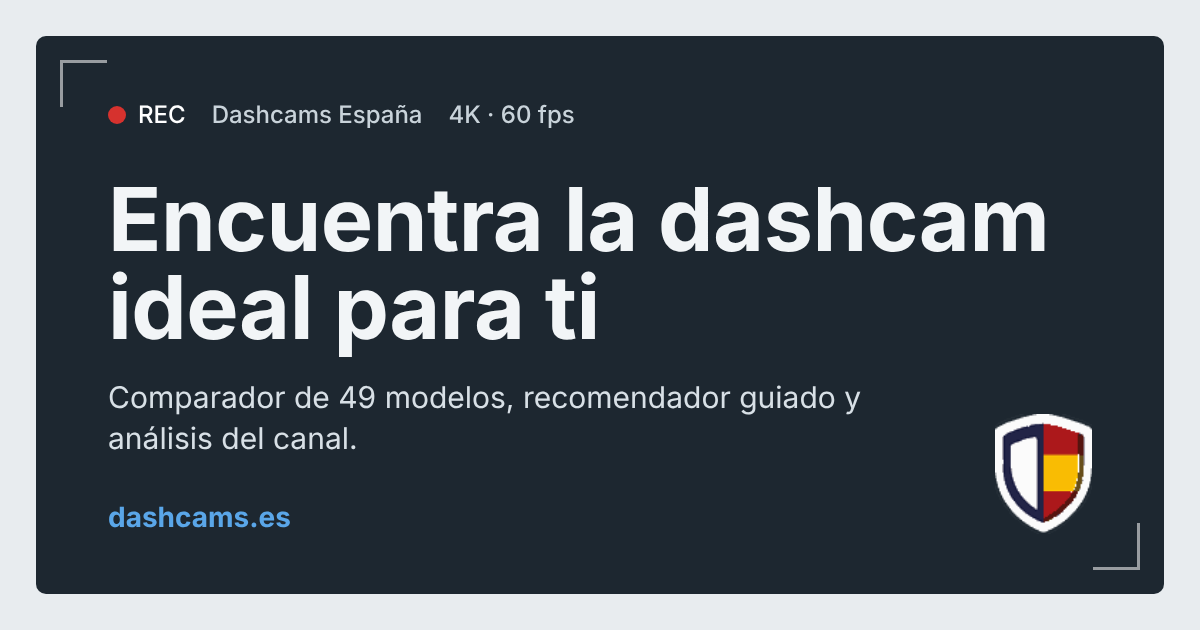
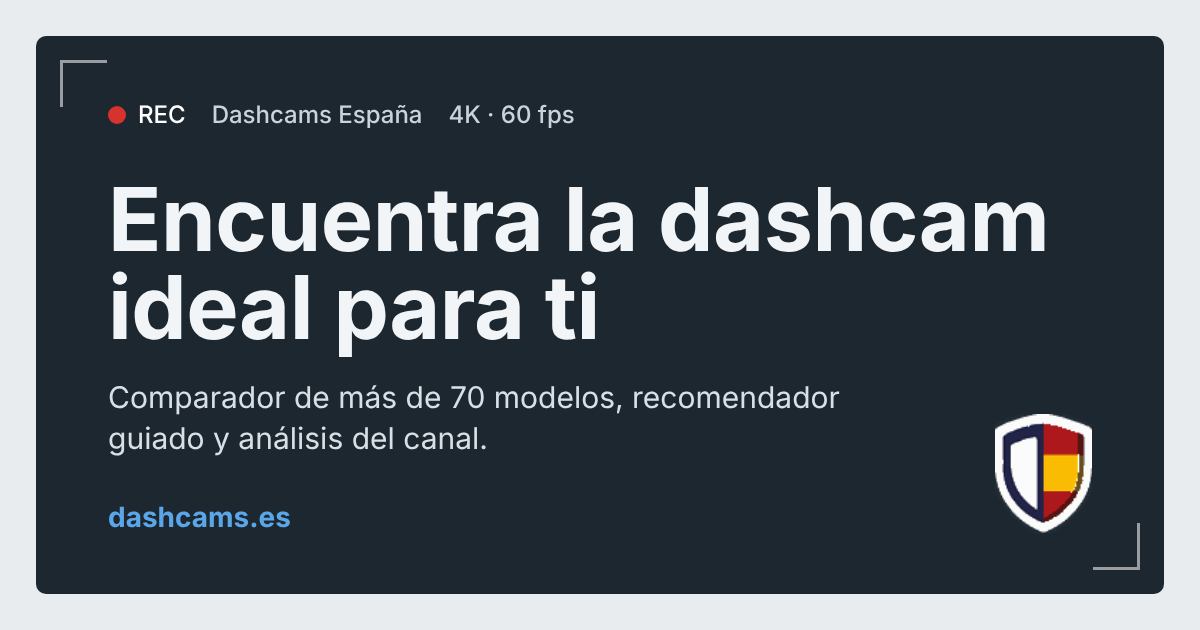
Añade 23 dashcams al comparador y al recomendador
Modelos bien valorados en el hilo de r/CarsPH (DDPAI, 70mai, Transcend)
y en reseñas de 2026 (Garmin, Vantrue, Redtiger, Miofive, Thinkware,
BlackVue, Viofo), comprobados en Amazon.es. La DDPAI Z50 pasa a Z50 Pro y
la Z60 Pro enlaza a su análisis.

Claude-Session: https://claude.ai/code/session_01MQzpTi9XUnpbRSKxLniG7L

Changed region(s): [[0.0925, 0.6032, 0.7092, 0.7238]]

diff --git a/index.html b/index.html
@@ -306,7 +306,10 @@ var ASIN = {
 "Vantrue N4S 3CH":"B0F59T1B4N","Vantrue N5S 4CH":"B0F8BWJHW4","Vantrue E1 Pro 4K Mini":"B0DSKXJV3H","Vantrue S1 Pro":"B0F4WK84NS",
 "Thinkware U3000 Pro 4K":"B0FZW91Y7G","Thinkware Q200":"B0CRZ3SC54","Thinkware F70 Pro":"B0C8HGNZT2","BlackVue Elite 9 2CH":"B0F2JJ4NDG",
 "Nextbase 622GW":"B0F8W2FW85","Nextbase 522GW":"B07PV2RX57","Nextbase 422GW":"B07PV1Q979","Nextbase 322GW":"B07PV198QC","Nextbase Piqo 2K":"B0DD7Z338X","Nextbase iQ":"B0CT929JR8",
-"Garmin Dash Cam 57":"B0932FTP6D","Garmin Dash Cam 67W":"B093244D1J","Garmin Dash Cam X310":"B0DDTCZT4L","70mai Dash Cam A500S":"B07J35BF35"
+"Garmin Dash Cam 57":"B0932FTP6D","DDPAI Z50 Pro":"B0F4D44JTC","DDPAI N5 Dual":"B0CYC7D8PX","DDPAI N4T Pro 3CH":"B0H74QSMBS","DDPAI N2 Dual":"B0HDRW9X69","DDPAI Mini Pro":"B0H3Z8M52C",
+"70mai A510":"B0D6B1SBMH","70mai A800SE":"B0G8HNXGC5","70mai A810 Lite":"B0GTLD65SS","70mai M310 Plus 4K":"B0GKGSBWWH","70mai Omni X800":"B0DSDV3CZ3","70mai T800 3CH":"B0FC6DZL63",
+"Garmin Dash Cam Mini 3":"B0DDTCNLG7","Garmin Dash Cam X110":"B0DDT9N1TH","Garmin Dash Cam X210":"B0DDTCW6VG","Garmin Dash Cam Tandem":"B082JHTSGT","Miofive S1 Pro Dual":"B0GKD5M87D","Redtiger F7N Touch 4K":"B0HFMQRG39",
+"Thinkware ARC 700":"B0GF8T2SD5","Transcend DrivePro 550":"B08VFCRG6V","Vantrue E2":"B0B68MTZJP","Vantrue S1 Pro Max":"B0F8BW5HTS","Viofo A139 3CH":"B08XB8DVGL","BlackVue Elite 10 2CH":"B0GCSH37Z5","Garmin Dash Cam 67W":"B093244D1J","Garmin Dash Cam X310":"B0DDTCZT4L","70mai Dash Cam A500S":"B07J35BF35"
 };
 function amz(n){return ASIN[n]?"https://www.amazon.es/dp/"+ASIN[n]+"?tag="+TAG:"https://www.amazon.es/s?k="+encodeURIComponent(n)+"&tag="+TAG;}
 
@@ -318,7 +321,10 @@ var PR={"70mai Dash Cam M300":"40–80 €","70mai A810S 4K":"unos 260 €","AZD
 "BlackVue DR970X Plus 2CH":"430–500 €","BlackVue DR770X 2CH":"unos 340 €","BlackVue DR590X 2CH":"210–220 €","BlackVue Elite 9 2CH":"410–460 €",
 "Nextbase 622GW":"unos 255 €","Nextbase 522GW":"unos 205 €","Nextbase 422GW":"115–170 €","Nextbase 322GW":"unos 140 €","Nextbase 222":"50–110 €","Nextbase Piqo 2K":"unos 125 €","Nextbase iQ":"450–650 €",
 "Garmin Dash Cam 57":"unos 180 €","Garmin Dash Cam 67W":"unos 340 € (vendedor externo)","Garmin Dash Cam X310":"unos 300 €","70mai Dash Cam A500S":"unos 105 € (vendedor externo)",
-"DDPAI Z50":"unos 165 €","AZDOME M550 3CH":"unos 135 €","NEXPOW 3 canales 4K":"60–100 €","WolfBox espejo 12 pulgadas 4K":"120–130 €"};
+"DDPAI Z50 Pro":"unos 95 €","DDPAI Z60 Pro":"desde unos 130 € (delantera y trasera)","DDPAI N5 Dual":"unos 150 €","DDPAI N4T Pro 3CH":"unos 130 €","DDPAI N2 Dual":"unos 80 €","DDPAI Mini Pro":"unos 55 €",
+"70mai A510":"unos 140 €","70mai A800SE":"unos 140 €","70mai A810 Lite":"unos 105 €","70mai M310 Plus 4K":"unos 70 €","70mai Omni X800":"unos 400 €","70mai T800 3CH":"unos 450 €",
+"Garmin Dash Cam Mini 3":"unos 130 €","Garmin Dash Cam X110":"unos 180 €","Garmin Dash Cam X210":"unos 240 €","Garmin Dash Cam Tandem":"unos 350 €","Miofive S1 Pro Dual":"unos 170 € (vendedor externo)","Redtiger F7N Touch 4K":"unos 120 €",
+"Thinkware ARC 700":"unos 305 € (vendedor externo)","Transcend DrivePro 550":"unos 155 €","Vantrue E2":"unos 220 €","Vantrue S1 Pro Max":"unos 300 €","Viofo A139 3CH":"unos 280 €","BlackVue Elite 10 2CH":"unos 700 €","AZDOME M550 3CH":"unos 135 €","NEXPOW 3 canales 4K":"60–100 €","WolfBox espejo 12 pulgadas 4K":"120–130 €"};
 function btn(u){return "<a class='buy' href='"+u+"' target='_blank' rel='sponsored noopener'>"+(u.indexOf("/s?k=")>-1?"Buscar en Amazon":"Ver en Amazon")+"</a>";}
 
 /* ===== BLOG: cada artículo es un bloque de esta lista (el primero sale el primero en el blog) =====
@@ -848,7 +854,7 @@ var DASHCAMS = [
 ["VIOFO VS1","2K a 30 fps","","","Sí","","Sí","Sí (con kit a fusibles)","","","8,37 / 10","#vs1",amz("VIOFO VS1")]
   ];
   var RA=[[1,2,1,0,1,1,0,0,1],[3,3,1,1,1,1,0,1,0],[2,3,2,1,1,1,1,0,0],[2,1,1,0,1,.5,1,0,1],[3,3,3,1,1,1,1,0,0],[3,2,2,1,1,1,1,1,0],[4,3,2,1,1,1,1,1,0],[4,2,3,1,1,1,1,0,0],[2,2,1,1,0,1,1,0,.5]];
-  /* Base ampliada: [nombre, gama, res(1=1080p,2=2K,3=4K), cámaras(1,2,3), GPS, WiFi, aparcado, voz, pantalla, discreta, ángulo, tarjeta, texto trasera, nota resolución]; 1=sí, .5=opcional, 0=no, null=sin confirmar */
+  /* Base ampliada: [nombre, gama, res(1=1080p,2=2K,3=4K), cámaras(1,2,3), GPS, WiFi, aparcado, voz, pantalla, discreta, ángulo, tarjeta, texto trasera, nota resolución, reseña del blog (opcional, p. ej. "#ddpai-z60-pro")]; 1=sí, .5=opcional, 0=no, null=sin confirmar */
   var NEW=[
 ["Viofo A119 Mini 2",2,2,1,1,1,1,1,1,1,"140°","","",""],
 ["Viofo A119M Pro 4K",2,3,1,1,1,1,1,1,1,"","Hasta 512 GB","",""],
@@ -883,7 +889,30 @@ var DASHCAMS = [
 ["70mai Dash Cam A400",2,2,2,null,1,1,null,null,0,"","",""," (trasera 1080p)"],
 ["70mai Dash Cam A500S",2,2,2,1,1,1,null,1,0,"140°","",""," (2,7K, trasera 1080p)"],
 ["70mai Dash Cam Lite",1,1,1,null,1,1,null,1,0,"130°","","",""],
-["DDPAI Z50",2,3,2,1,1,null,null,null,0,"140° delantera, 125° trasera","",""," (trasera 1080p)"],
+["DDPAI Z50 Pro",2,3,2,1,1,1,1,1,0,"143°","Hasta 512 GB",""," (trasera 1080p)"],
+["DDPAI Z60 Pro",2,3,3,1,1,1,1,1,0,"","","Sí (trasera 1080p e interior 2K)"," (3K a 60 fps)","#ddpai-z60-pro"],
+["DDPAI N5 Dual",2,3,2,1,1,1,1,1,0,"170°","Hasta 512 GB",""," (trasera 1080p)"],
+["DDPAI N4T Pro 3CH",2,3,3,null,null,null,null,null,0,"","",""," (trasera e interior 1080p; interior con infrarrojos)"],
+["DDPAI N2 Dual",1,2,2,null,1,1,null,1,0,"","Hasta 256 GB",""," (2,5K; trasera 1080p)"],
+["DDPAI Mini Pro",1,3,1,null,1,1,1,null,1,"Gira 360°","","",""],
+["70mai A510",2,2,2,1,1,1,null,null,0,"","",""," (2,7K; trasera 1080p)"],
+["70mai A800SE",2,3,2,1,1,1,null,1,0,"140°","",""," (trasera 1080p)"],
+["70mai A810 Lite",2,3,2,1,1,1,1,null,1,"","",""," (trasera 1080p; 4G opcional)"],
+["70mai M310 Plus 4K",1,3,1,null,1,1,null,0,1,"Gira 360°","","",""],
+["70mai Omni X800",3,3,2,.5,1,1,null,null,0,"Gira 360°","",""," (trasera 1080p)"],
+["70mai T800 3CH",4,3,3,null,null,null,1,null,0,"146°","",""," (tres cámaras STARVIS 2; 4G LTE)"],
+["Garmin Dash Cam Mini 3",2,1,1,null,1,null,1,0,1,"140°","","",""],
+["Garmin Dash Cam X110",2,1,1,1,1,null,1,1,0,"140°","","",""],
+["Garmin Dash Cam X210",3,2,1,1,1,null,1,1,0,"140°","",""," (1440p)"],
+["Garmin Dash Cam Tandem",3,2,2,1,1,1,1,0,0,"180°","","Cámara interior (sin trasera)"," (1440p)"],
+["Miofive S1 Pro Dual",2,3,2,1,1,1,null,1,0,"140°","",""," (trasera 2K)"],
+["Redtiger F7N Touch 4K",2,3,2,1,1,1,1,1,0,"140° trasera","","",""],
+["Thinkware ARC 700",3,3,2,1,1,1,null,null,0,"","",""," (trasera 2K)"],
+["Transcend DrivePro 550",2,1,2,1,1,null,null,null,0,"140°","","Cámara interior con infrarrojos (sin trasera)",""],
+["Vantrue E2",3,2,2,1,1,1,1,1,0,"","Hasta 512 GB",""," (1944p; trasera 1440p)"],
+["Vantrue S1 Pro Max",3,3,2,1,1,1,1,null,0,"","",""," (trasera también 4K)"],
+["Viofo A139 3CH",3,2,3,1,1,1,null,null,0,"170°","",""," (interior y trasera 1080p)"],
+["BlackVue Elite 10 2CH",4,3,2,null,1,1,null,null,0,"","","",""],
 ["Miofive 4K",2,3,1,null,null,null,null,null,0,"140°","","",""],
 ["Rexing V1GW-4K",2,3,1,null,null,null,0,1,0,"170°","Hasta 256 GB","",""],
 ["Redtiger F77",1,3,2,1,1,null,null,null,0,"","",""," (trasera 1080p)"],
@@ -895,7 +924,7 @@ var DASHCAMS = [
     var R=["","1080p","2K","4K"],Y=function(v){return v===1?"Sí":v===.5?"Opcional o según modelo":v===0?"No":"";};
     NEW.forEach(function(n){
       var rr=n[12]||(n[3]===1?"No":n[3]===2?"Sí (trasera)":"Sí (trasera e interior)");
-      CMP.push([n[0],R[n[2]]+(n[13]||""),rr,n[10],Y(n[4]),Y(n[5]),Y(n[7]),Y(n[6]),n[8]===1?"Sí":n[8]===0?"Sin pantalla":"",n[11],"","",amz(n[0])]);
+      CMP.push([n[0],R[n[2]]+(n[13]||""),rr,n[10],Y(n[4]),Y(n[5]),Y(n[7]),Y(n[6]),n[8]===1?"Sí":n[8]===0?"Sin pantalla":"",n[11],"",n[14]||"",amz(n[0])]);
       RA.push([n[1],n[2],n[3],+n[4]||0,+n[5]||0,+n[6]||0,+n[7]||0,+n[8]||0,+n[9]||0]);
     });
   })();

diff --git a/README.md b/README.md
@@ -1,6 +1,6 @@
 # Dashcams España — web
 
-Web de comparativa de dashcams de [Dashcams España](https://www.youtube.com/@DashcamsEsp): comparador de 49 modelos, recomendador guiado, blog con análisis, descargas, formularios y páginas legales.
+Web de comparativa de dashcams de [Dashcams España](https://www.youtube.com/@DashcamsEsp): comparador de más de 70 modelos, recomendador guiado, blog con análisis, descargas, formularios y páginas legales.
 
 Archivos:
 - `index.html`: toda la web (HTML, CSS y JavaScript dentro).
